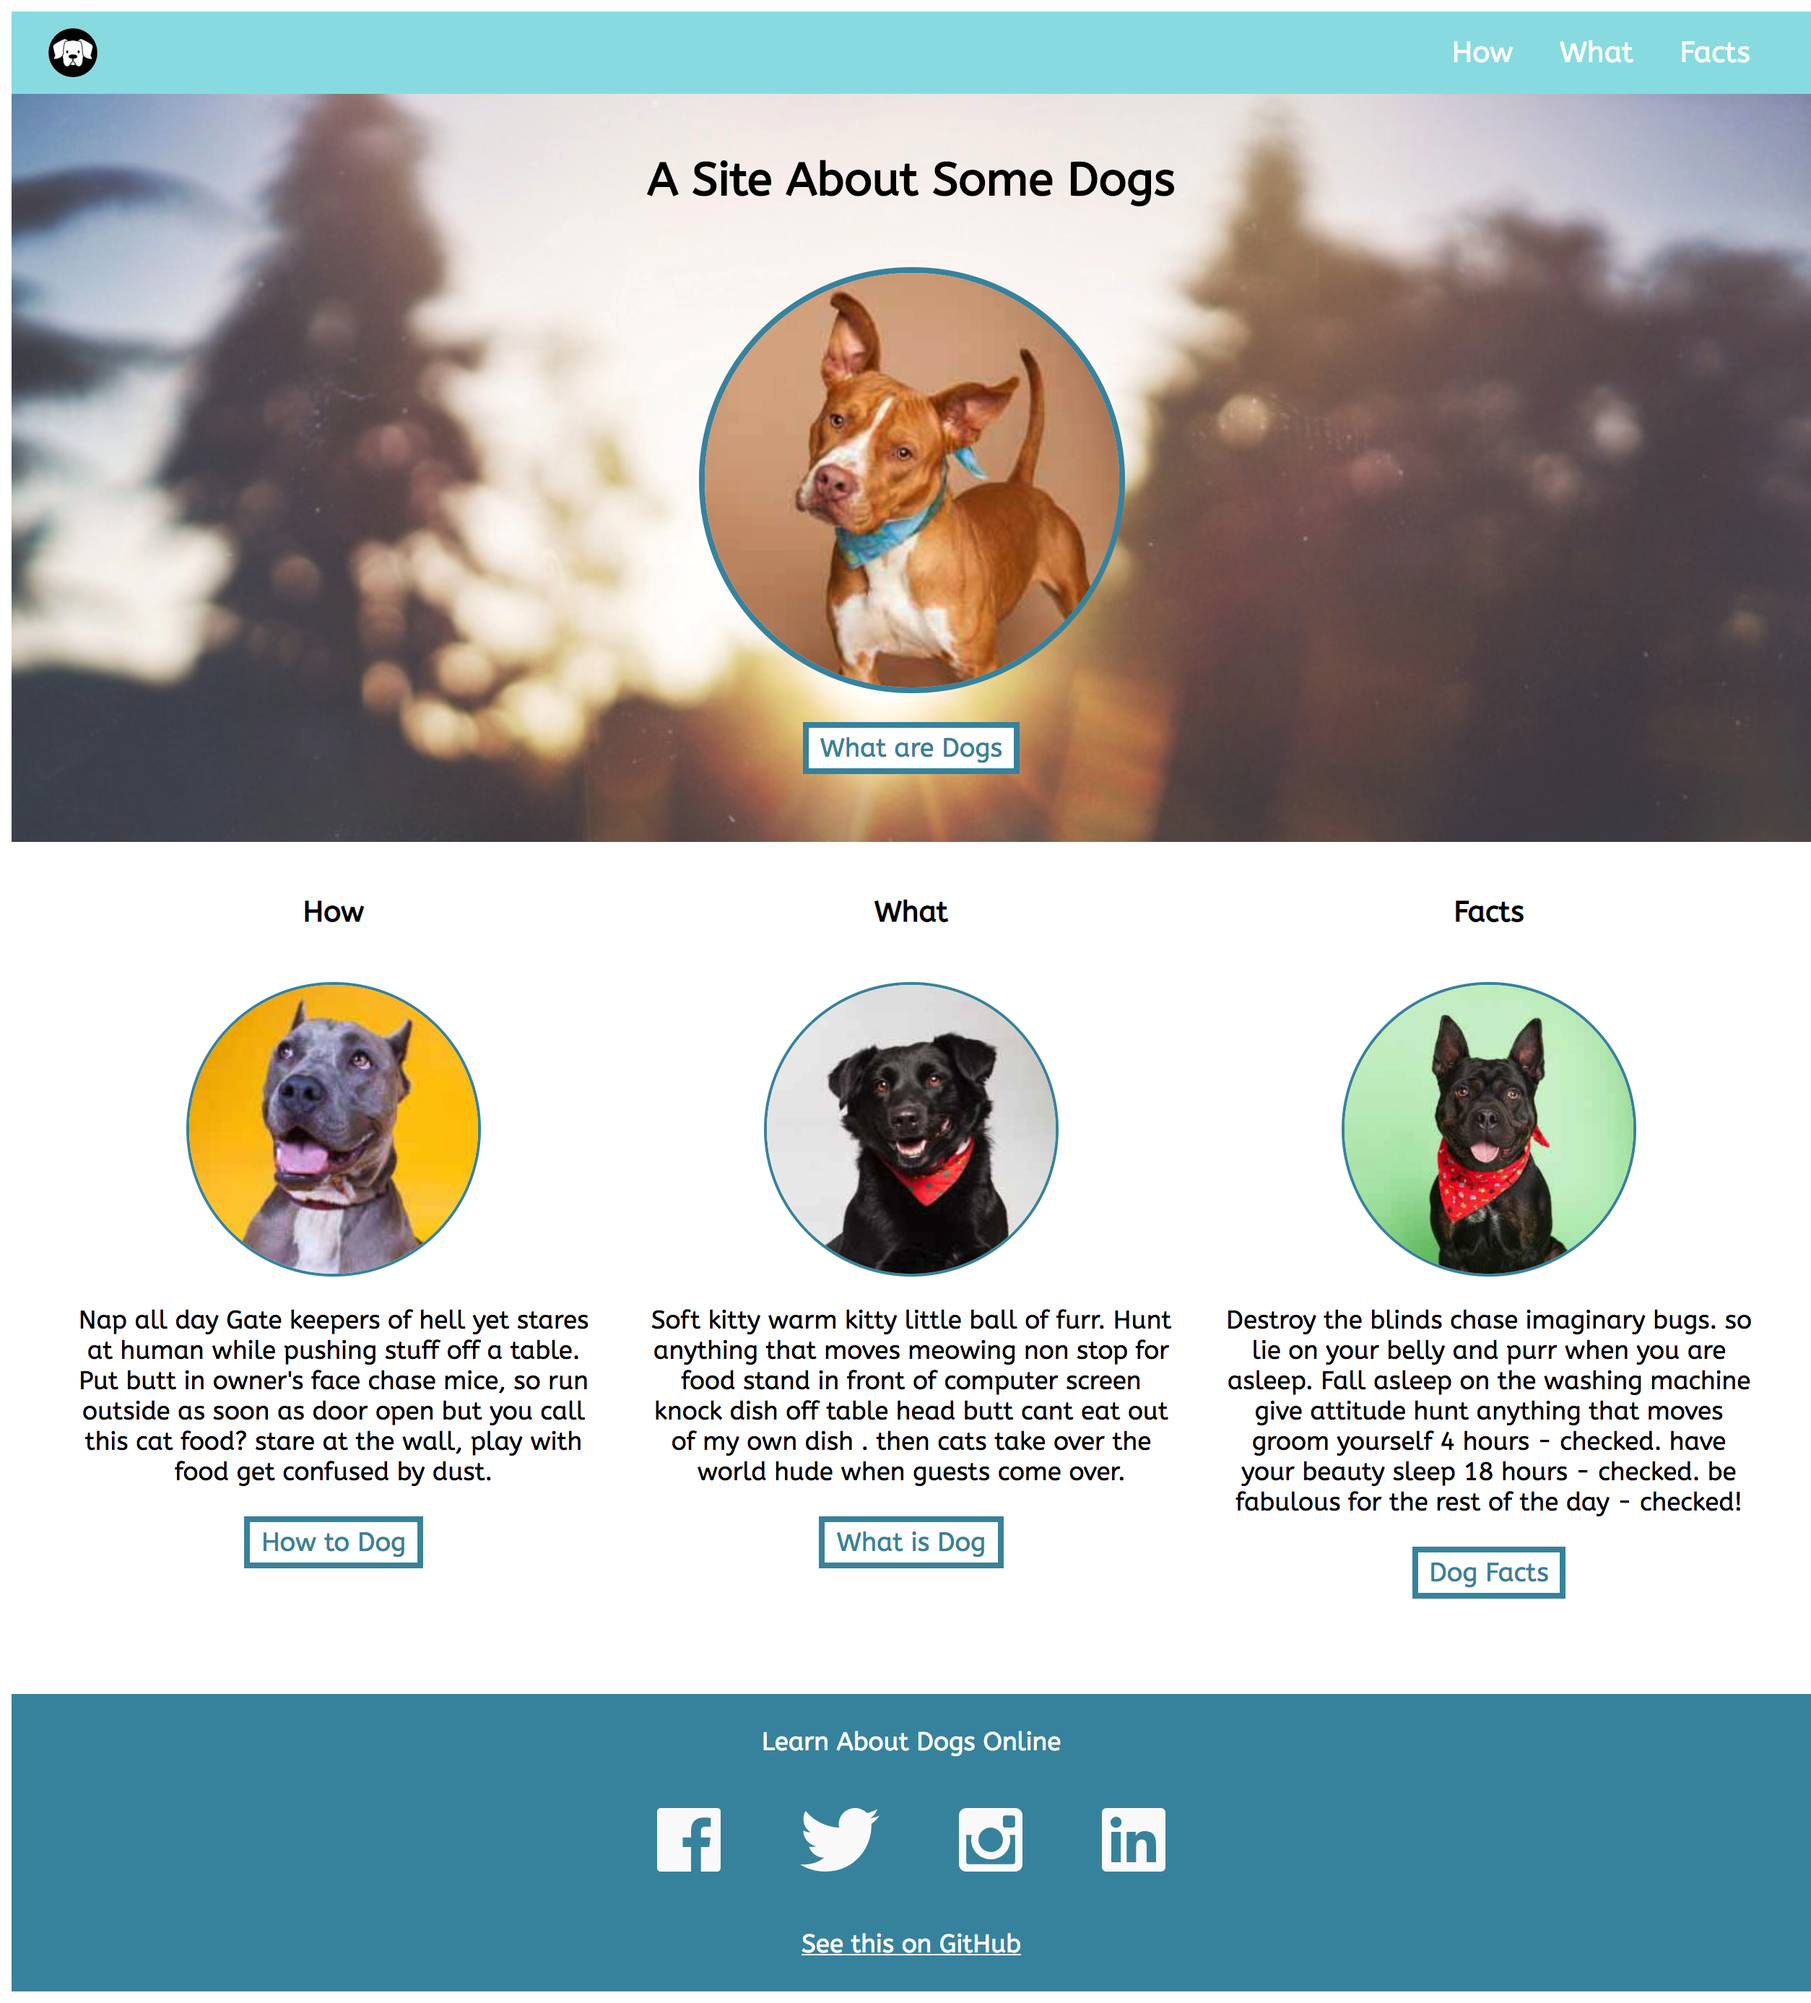
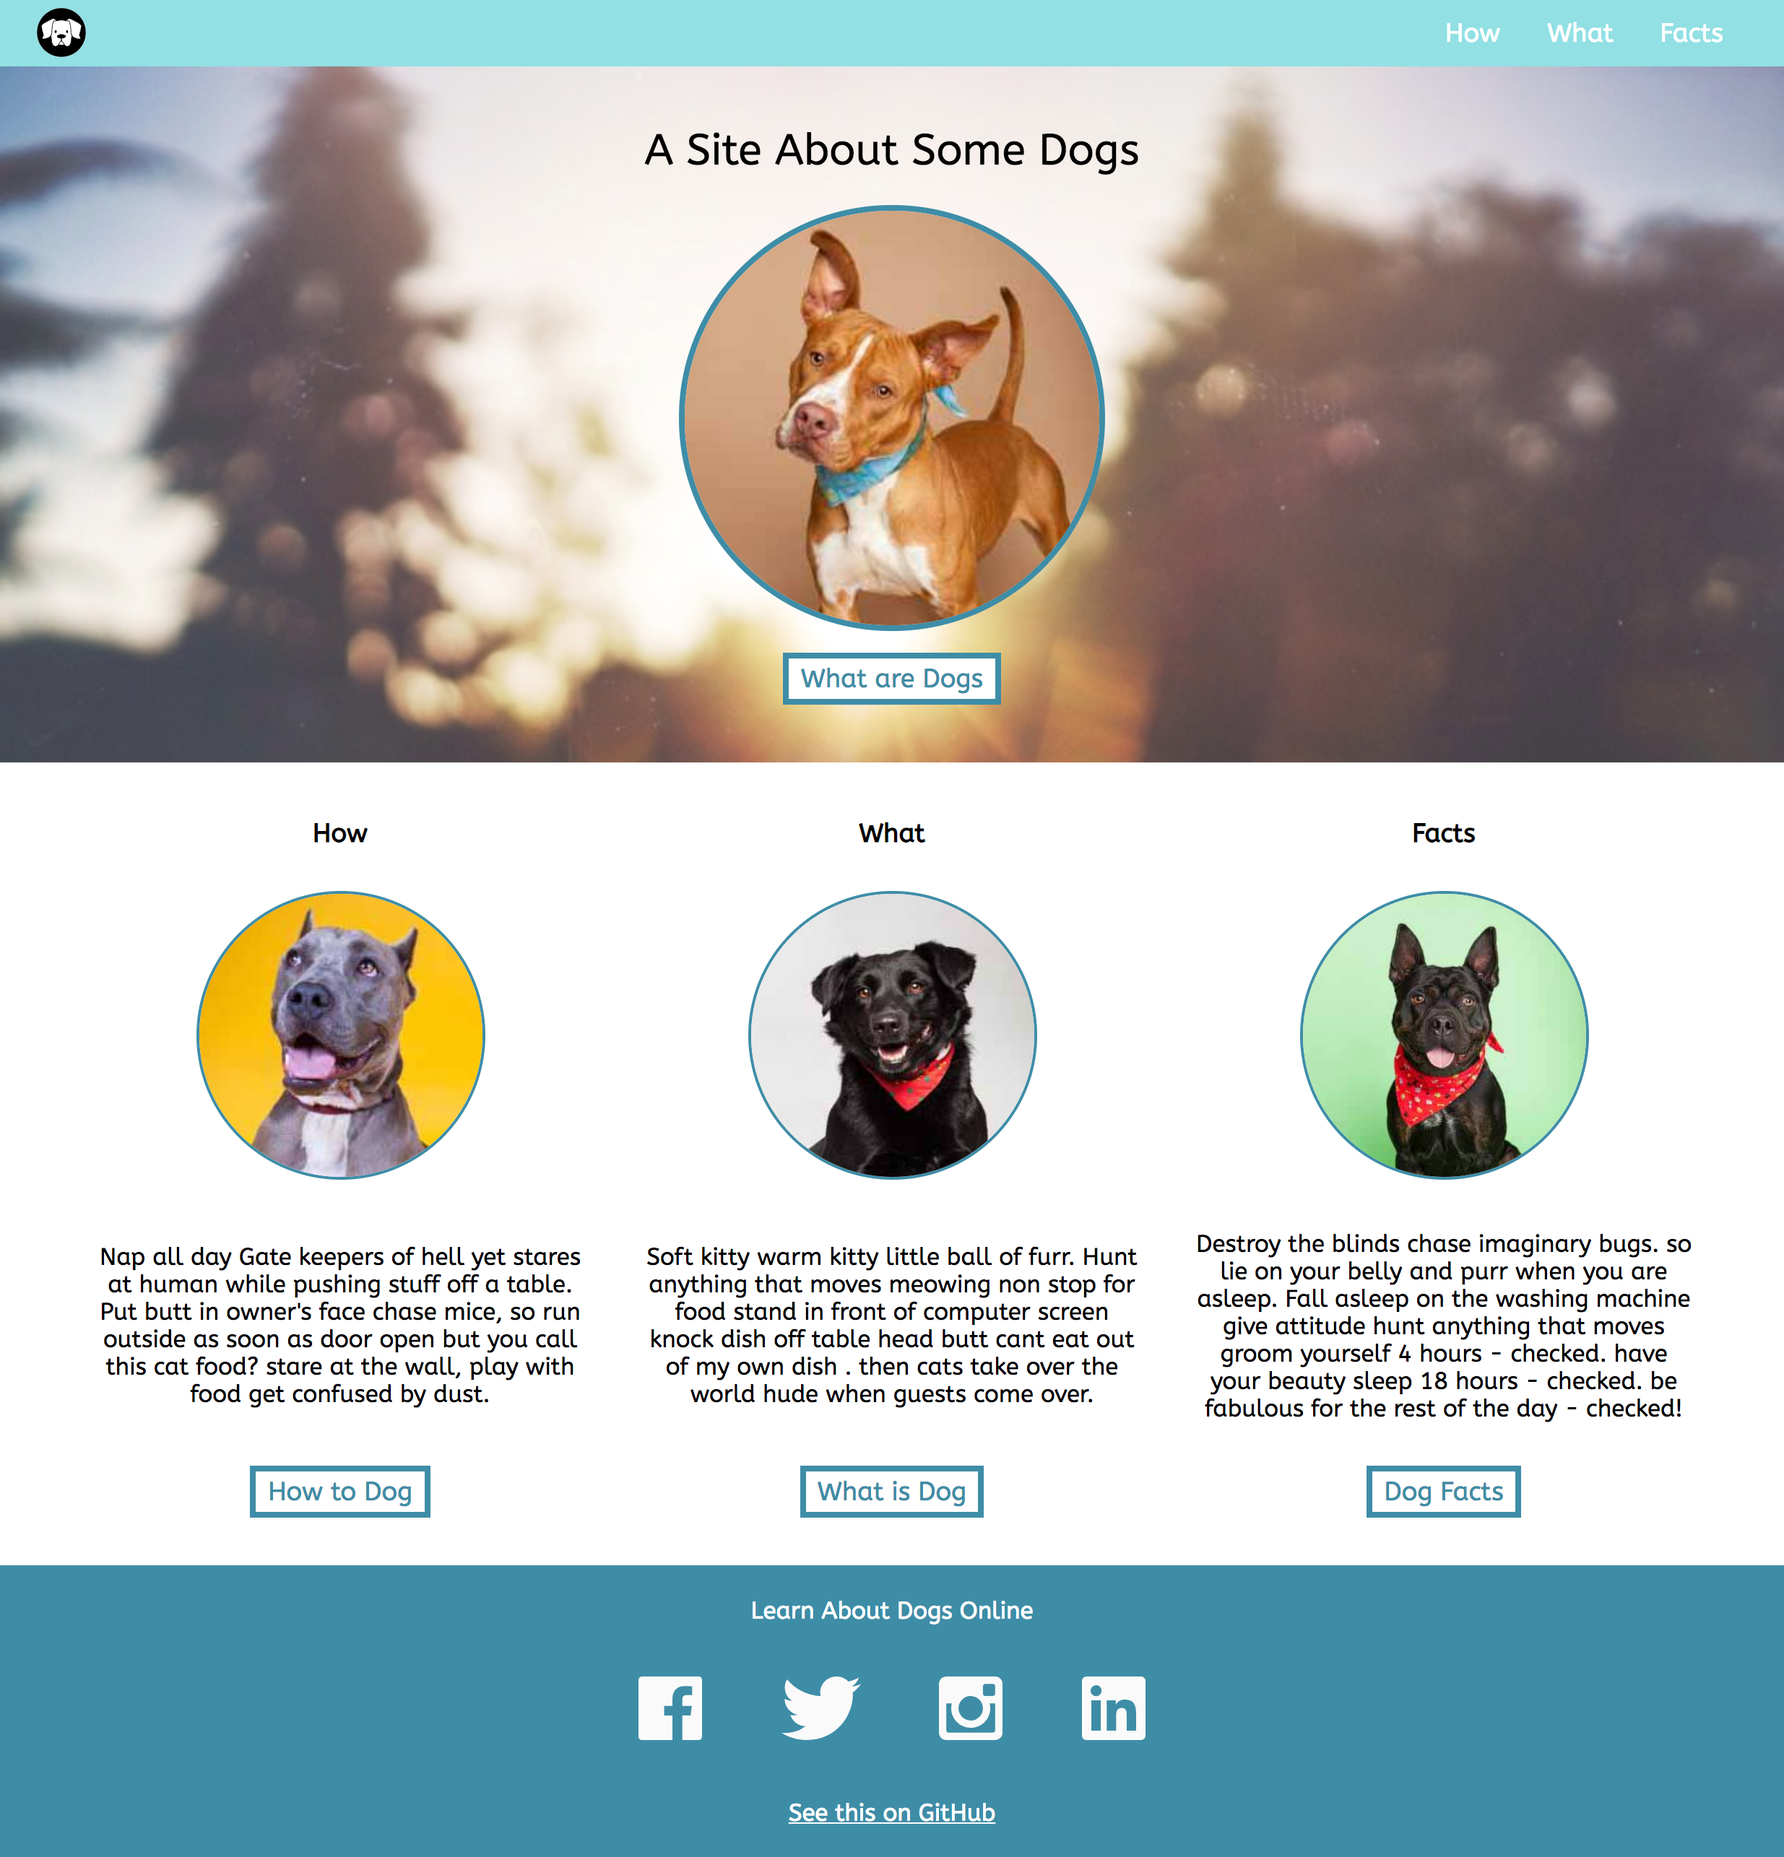
Initial commit

diff --git a/index.html b/index.html
@@ -1,60 +1,68 @@
+<!DOCTYPE html>
 <html>
 
 <head>
   <title>Dog Party</title>
-  <link href="https://fonts.googleapis.com/css?family=ABeeZee|Josefin+Slab|Quicksand|Shadows+Into+Light|Suez+One" rel="stylesheet">
+  <link href="https://fonts.googleapis.com/css?family=ABeeZee" rel="stylesheet">
   <link rel="stylesheet" href="styles.css">
 </head>
 
 <body>
-  <div class="pageHeader">
-    <img class="dogIcon" src="images/dog-icon.svg" alt="dog icon"/>
-    <table>
-      <tbody>
+  <header class="clear-fix">
+    <img class="dog-icon" src="images/dog-icon.svg" alt="dog icon">
+    <table class="head-table">
         <tr>
-          <td>How</td>
-          <td>What</td>
-          <td>Facts</td>
+          <td class="head-td">How</td>
+          <td class="head-td">What</td>
+          <td class="head-td">Facts</td>
         </tr>
-      </tbody>
+    </table>
+  </header>
+
+  <div class="head-dog">
+    <h1>A Site About Some Dogs</h1>
+    <img class="head-dog-img" src="images/dog1-sq.jpg" alt="photo of brown dog">
+    <button>What are Dogs</button>
+  </div>
+
+  <div class="dog-facts">
+    <table class="facts-table">
+      <tr>
+        <td class="facts-td"><h2>How</h2></td>
+        <td class="facts-td"><h2>What</h2></td>
+        <td class="facts-td"><h2>Facts</h2></td>
+      </tr>
+
+      <tr>
+        <td class="facts-td"><img class="dog-img" src="images/dog2-sq.jpg" alt="photo of grey dog"></td>
+        <td class="facts-td"><img class="dog-img" src="images/dog3-sq.jpg" alt="photo of black dog with red bandana"></td>
+        <td class="facts-td"><img class="dog-img" src="images/dog4-sq.jpg" alt="photo of black dog with red bandana"></td>
+      </tr>
+        
+      <tr>
+        <td class="facts-td"><p>Nap all day Gate keepers of hell yet stares at human while pushing stuff off a table. Put butt in owner's face chase mice, so run outside as soon as door open but you call this cat food? stare at the wall, play with food get confused by dust.</p></td>
+        <td class="facts-td"><p>Soft kitty warm kitty little ball of furr. Hunt anything that moves meowing non stop for food stand in front of computer screen knock dish off table head butt cant eat out of my own dish . then cats take over the world hude when guests come over.</p></td>
+        <td class="facts-td"><p>Destroy the blinds chase imaginary bugs. so lie on your belly and purr when you are asleep. Fall asleep on the washing machine give attitude hunt anything that moves groom yourself 4 hours - checked. have your beauty sleep 18 hours - checked. be fabulous for the rest of the day - checked!</p></td>
+      </tr>
+        
+      <tr>
+        <td class="facts-td"><button>How to Dog</button></td>
+        <td class="facts-td"><button>What is Dog</button></td>
+        <td class="facts-td"><button>Dog Facts</button></td>
+      </tr>
     </table>
   </div>
 
-  <div class="headDog">
-    <h1>A Site About Some Dogs</h1>
-    <p><img class="headDogImg" src="images/dog1-sq.jpg" alt="photo of brown dog"/><br>
-    <button type="button">What are Dogs</button></p>
-  </div>
-
-
-  <div class="dogFacts">
-    <div class="leftDog">
-      <h2>How</h2>
-      <p><img class="dogImg" src="images/dog2-sq.jpg" alt="photo of grey dog"/><br>Nap all day Gate keepers of hell yet stares at human while pushing stuff off a table. Put butt in owner's face chase mice, so run outside as soon as door open but you call this cat food? stare at the wall, play with food get confused by dust.<br>
-      <button type="button">How to Dog</button></p>
-    </div>
-
-    <div class="middleDog">
-      <h2>What</h2>
-      <p><img class="dogImg" src="images/dog3-sq.jpg" alt="photo of black dog with red bandana"/><br>Soft kitty warm kitty little ball of furr. Hunt anything that moves meowing non stop for food stand in front of computer screen knock dish off table head butt cant eat out of my own dish . then cats take over the world hude when guests come over.<br>
-      <button type="button">What is Dog</button></p>
-    </div>
-
-    <div class="rightDog">
-      <h2>Facts</h2>
-      <p><img class="dogImg" src="images/dog4-sq.jpg" alt="photo of black dog with red bandana"/><br>Destroy the blinds chase imaginary bugs. so lie on your belly and purr when you are asleep. Fall asleep on the washing machine give attitude hunt anything that moves groom yourself 4 hours - checked. have your beauty sleep 18 hours - checked. be fabulous for the rest of the day - checked!<br>
-      <button type="button">Dog Facts</button></p>
-    </div>
-  </div>
-
-  <div class="footer">
-    <p>Learn About Dogs Online<br>
-      <img class="footerImg" src="images/facebook.svg" alt="facebook icon"/>
-      <img class="footerImg" src="images/twitter.svg" alt="twitter icon"/>
-      <img class="footerImg" src="images/instagram.svg" alt="instagram icon"/>
-      <img class="footerImg" src="images/linkedin.svg" alt="linkedin icon"/><br>
-      <a href="https://github.com/">See this on GitHub</a></p>
-    </div>
+  <footer>
+    <p>Learn About Dogs Online</p>
+    <span>
+      <img class="footer-img" src="images/facebook.svg" alt="facebook icon">
+      <img class="footer-img" src="images/twitter.svg" alt="twitter icon">
+      <img class="footer-img" src="images/instagram.svg" alt="instagram icon">
+      <img class="footer-img" src="images/linkedin.svg" alt="linkedin icon">
+    </span>
+    <p><a "class=footer-a" href="https://github.com/">See this on GitHub</a></p>
+  </footer>
 </body>
 
 </html>

diff --git a/styles.css b/styles.css
@@ -1,90 +1,147 @@
-h1, h2, p, button, table {
+/*broad styles*/
+*,
+*:after,
+*:before {
+  box-sizing: border-box;
   font-family: "ABeeZee", serif;
   text-align: center;
 }
 
-h2 {
-  font-size: 20px;
+body {
+  /*weird 8px margin in user agent stylesheet*/
+  margin: 0;
 }
 
-.pageHeader {
+
+/*header styles*/
+header {
   background-color: #92E0E5;
-  padding: 15px 0;
+  padding: 5px 0;
 }
 
-.dogIcon {
+.dog-icon {
   float: left;
   height: 35px;
   margin-left: 25px;
-  margin-top: -4px;
 }
 
-table {
-  font-size: 20px;
-  margin-right: 25px;
-  margin-left: auto;
+.head-table {
+  color: white;
+  float: right;
+  font-size: 18px;
+  margin: 5px 25px 5px auto;
+  overflow: auto;
 }
 
-td {
+.head-td:hover {
+  color: grey;
+}
+
+.clear-fix:after {
+  content: ' ';
+  clear: both;
+  display: table;
+}
+
+.head-td {
   padding: 0 15px;
+}
+
+
+/*main content styles*/
+h1 {
+  font-size: 30px;
+  font-weight: normal;
+  overflow: wrap;
+}
+
+h2 {
+  font-size: 18px;
 }
 
 p {
-  font-size: 17.5px;
+  font-size: 16.5px;
   padding: 0 15px;
 }
 
-td, .footer, a {
-  color: white;
-}
-
-.headDog {
-  padding: 20px 0 10px 0;
+.head-dog {
   background-image: url("images/park.jpg");
-  background-repeat: no-repeat;
   background-size: cover;
+  padding: 20px 0 30px 0;
   width: 100%;
 }
 
-.dogFacts {
-  height: 550px;
-  width: 1200px;
+.head-dog-img {
+  border: 4px solid #3F8DA7;
+  border-radius: 100%;
+  display: block;
+  margin: 5px auto;
+}
+
+/*causes scroll bar for main content when screen size is reduced*/
+.dog-facts {
+  overflow: auto;
+}
+
+.facts-table {
   margin: 20px auto;
 }
 
-.leftDog, .middleDog, .rightDog {
-  width: 400px;
-  float: left;
+.facts-td {
+  min-width: 380px;
+  max-width: 380px;
+}
+
+.dog-img {
+  border: 2px solid #3F8DA7;
+  border-radius: 100%;
+  margin: 10px 0;
+  width: 200px;
 }
 
 button {
+  background-color: white;
+  border: 4px solid #3F8DA7;
   color: #3F8DA7;
   font-size: 18px;
-  border: 4px solid #3F8DA7;
+  margin: 10px auto;
   padding: 3px 8px;
-  margin: 20px auto;
-  background-color: white;
 }
 
-.dogImg {
-  border: 2px solid #3F8DA7;
-  border-radius: 100%;
-  width: 200px;
-  margin: 20px 0;
+button:hover {
+  background-color: lightgrey;
 }
 
-.headDogImg {
-  border: 4px solid #3F8DA7;
-  border-radius: 100%;
-  margin: 20px 0 0 0;
+
+/*footer styles*/
+footer,
+a {
+  color: white;
 }
 
-.footer {
+footer {
   background-color: #3F8DA7;
   padding: 5px 0;
 }
 
-.footerImg {
-  margin: 35px 25px;
+.footer-img {
+  margin: 20px 25px;
 }
 
+
+/*media query for smaller screens*/
+@media(max-width: 400px) {
+  .dog-icon,
+  .head-table {
+    float: none;
+    margin: 0 auto;
+  }
+
+  .head-td {
+    display: table-row;
+  }
+
+  .footer-img {
+    width: 30px;
+  }
+}

diff --git a/README.md b/README.md
@@ -3,7 +3,7 @@
 This is a page about doggos and a party for dogs! This static comp was completed as the first Front-End Mod 1 project at Turing.
 
 ## Preview of Page
-![screenshot](DogPartyScreenShot.png)
+![screenshot](DogPartyScreenshot.png)
 
 ## Built With
 This page was built using basic HTML and CSS.
